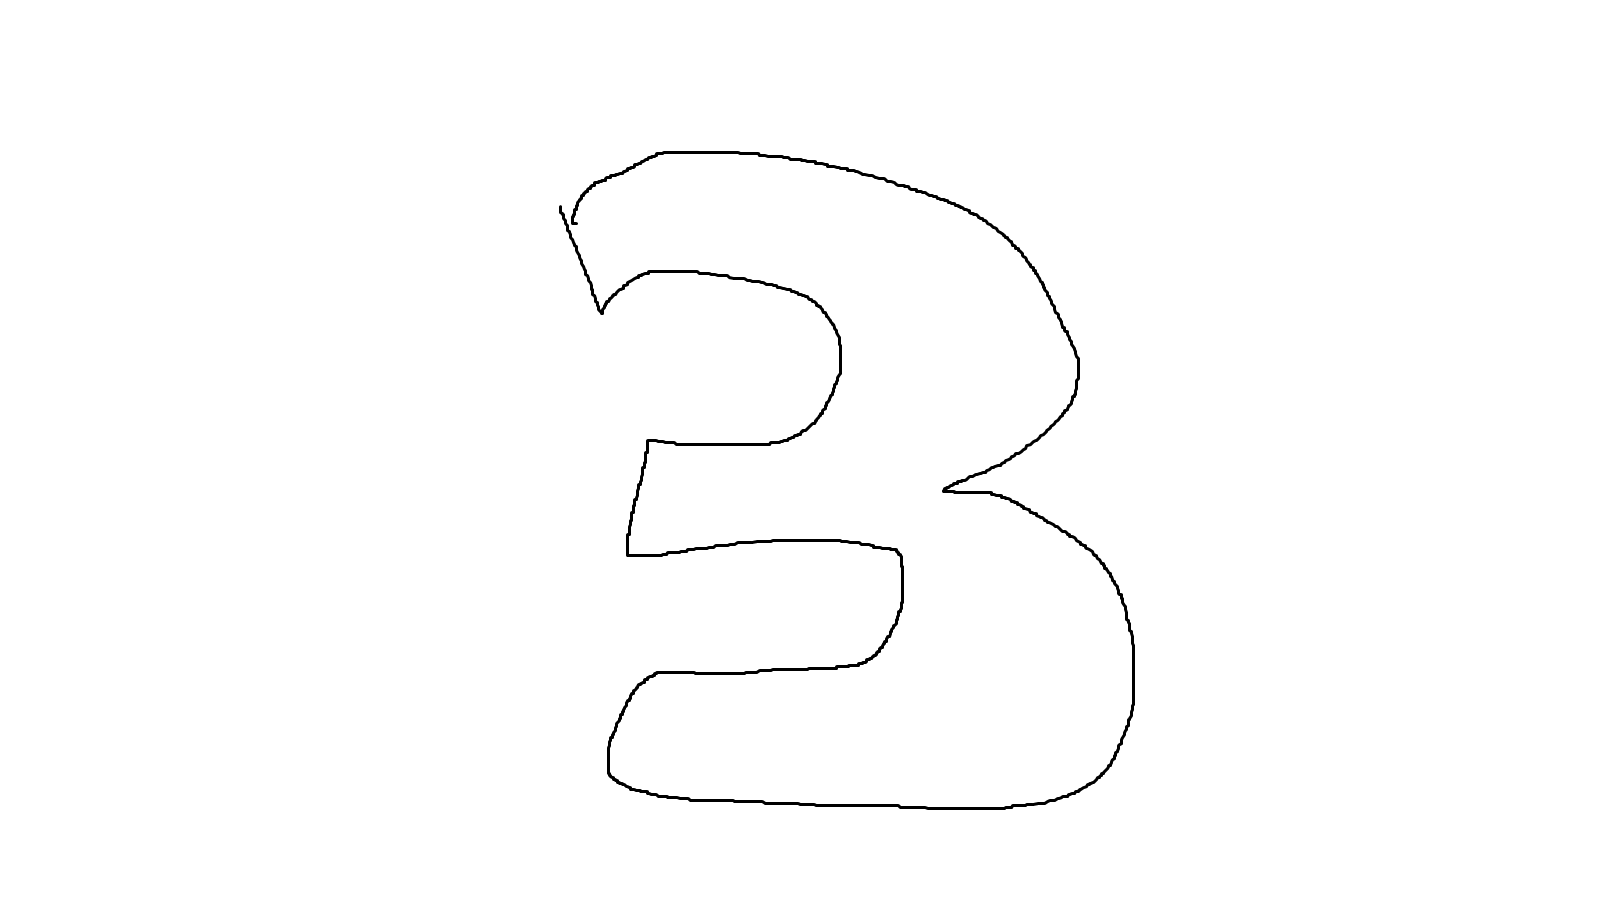
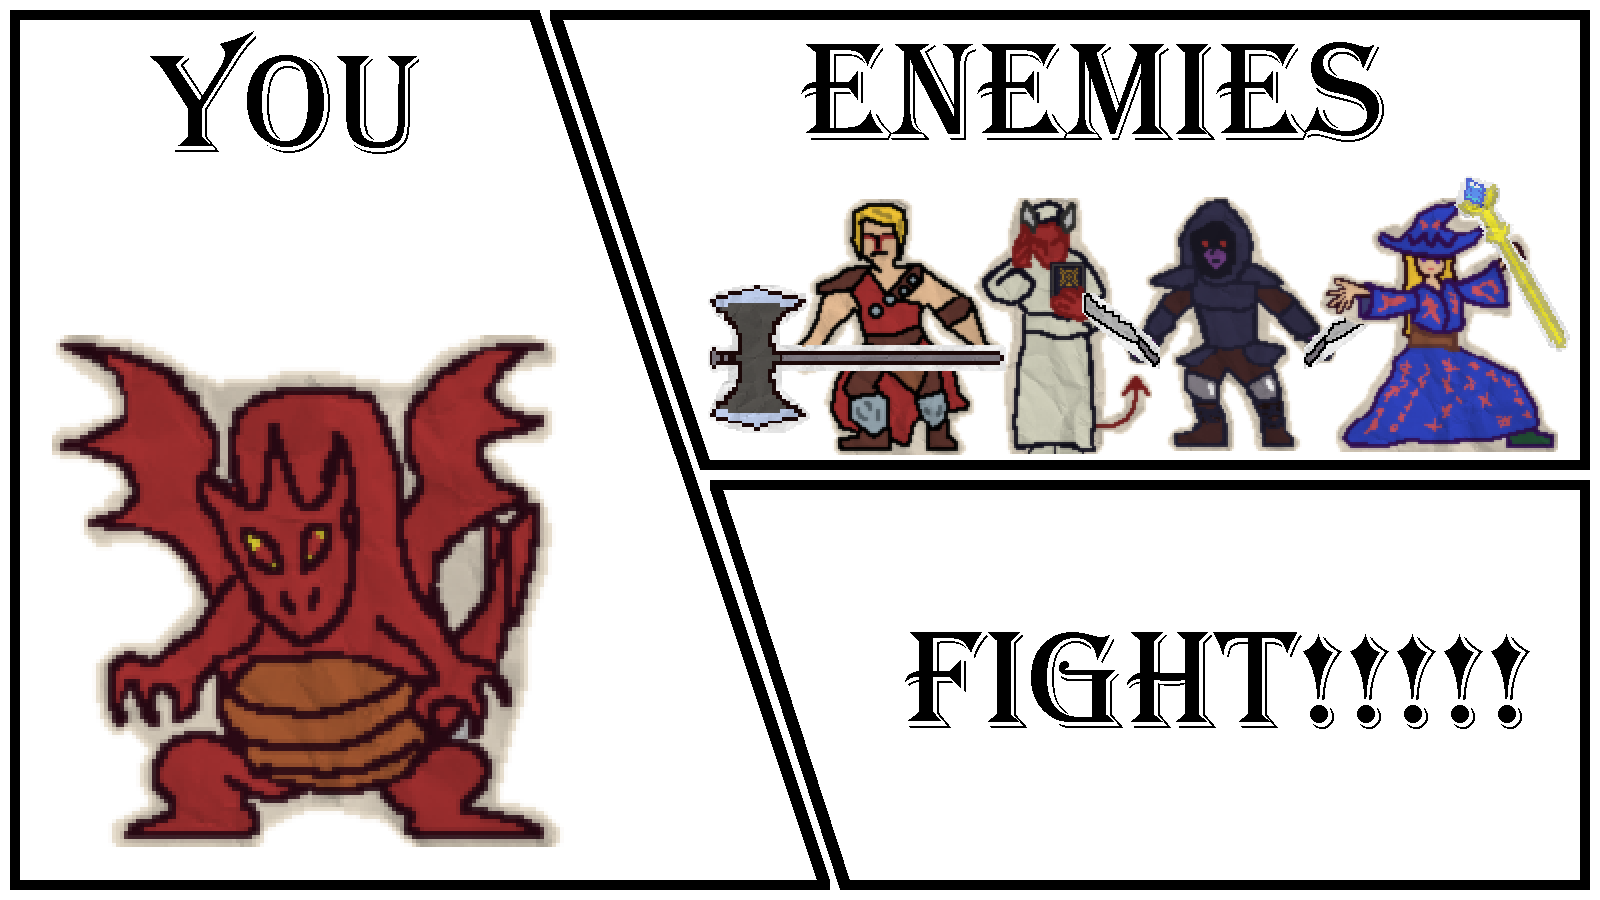
add one more cut scene / change to real cutscene

diff --git a/project/DragonicTactics/source/Game/Splash.h b/project/DragonicTactics/source/Game/Splash.h
@@ -29,8 +29,8 @@ class Splash : public CS230::GameState
   std::shared_ptr<CS230::Texture> texture;
 
   static constexpr double CUTSCENE_DURATION = 1.5;
-  static constexpr int    CUTSCENE_COUNT    = 3;
+  static constexpr int    CUTSCENE_COUNT    = 4;
   std::vector<std::shared_ptr<CS230::Texture>> m_cutscene_textures_;
-  int    m_cutscene_idx_   = -1;  // -1 = DigiPen phase, 0~2 = 컷신 진행
+  int    m_cutscene_idx_   = -1;  // -1 = DigiPen phase, 0~3 = 컷신 진행
   double m_cutscene_timer_ = 0.0;
 };

diff --git a/project/DragonicTactics/source/Game/Splash.cpp b/project/DragonicTactics/source/Game/Splash.cpp
@@ -31,6 +31,7 @@ void Splash::Load()
   m_cutscene_textures_[0] = Engine::GetTextureManager().Load("Assets/images/cut1.png");
   m_cutscene_textures_[1] = Engine::GetTextureManager().Load("Assets/images/cut2.png");
   m_cutscene_textures_[2] = Engine::GetTextureManager().Load("Assets/images/cut3.png");
+  m_cutscene_textures_[3] = Engine::GetTextureManager().Load("Assets/images/cut4.png");
   m_cutscene_idx_   = -1;
   m_cutscene_timer_ = 0.0;
 }
